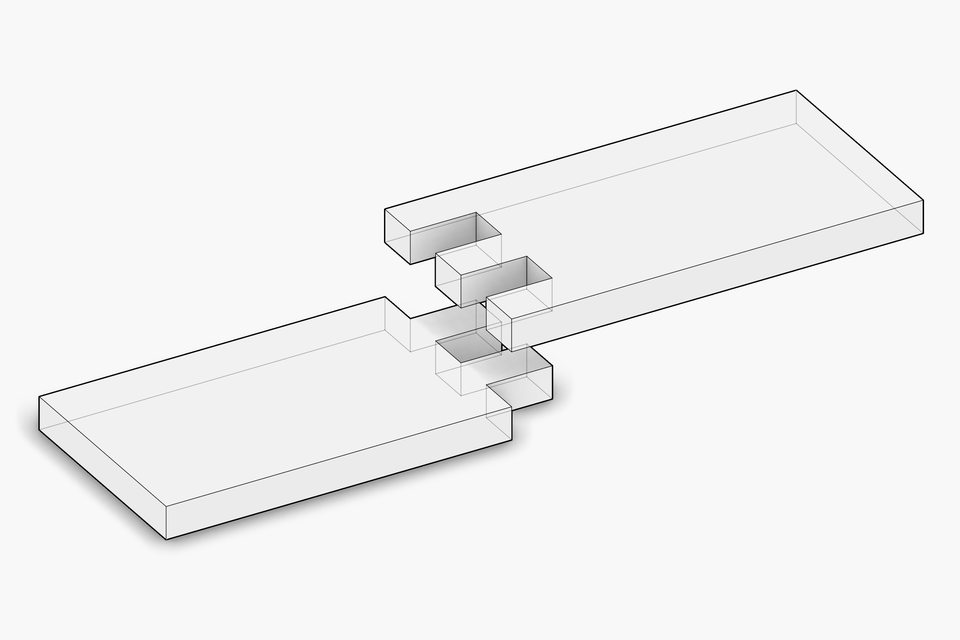
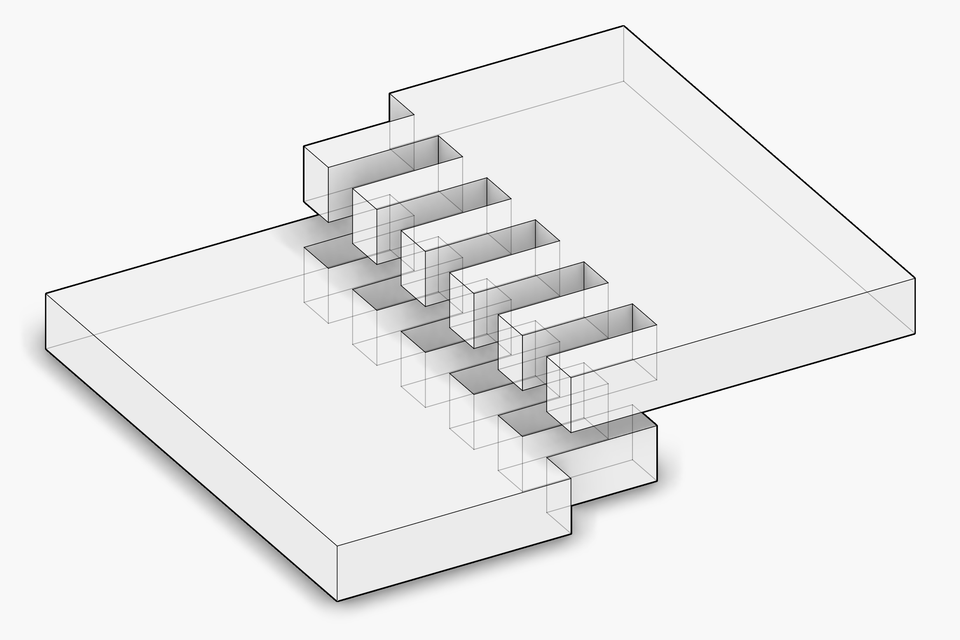
Joint library: repeat, a record's units by division ("k = count", count from the joint's size and a division distance; braced lines written once per unit, steps skip units past the count); round, max and min in expressions; p. 796 as the first parametric record, its fingers from the board's width

diff --git a/src/joinery_solver/wood_elements/wood_joint_library.cpp b/src/joinery_solver/wood_elements/wood_joint_library.cpp
@@ -112,7 +112,7 @@ struct Reader {
         return found->second;
     }
 
-    /// unit, length, cross, dot or meet of its arguments.
+    /// unit, length, cross, dot, meet, round, max or min of its arguments.
     LibraryValue call(const std::string& name) {
 
         std::vector<LibraryValue> arguments;
@@ -132,6 +132,12 @@ struct Reader {
             return {0.0, arguments[0].vector.cross(arguments[1].vector), true};
         if (name == "dot" && arguments.size() == 2)
             return {arguments[0].vector.dot(arguments[1].vector), Vector(), false};
+        if (name == "round" && arguments.size() == 1)
+            return {std::round(arguments[0].number), Vector(), false};
+        if (name == "max" && arguments.size() == 2)
+            return {std::max(arguments[0].number, arguments[1].number), Vector(), false};
+        if (name == "min" && arguments.size() == 2)
+            return {std::min(arguments[0].number, arguments[1].number), Vector(), false};
         if (name == "meet" && arguments.size() == 4) {
             const double along = (arguments[2].vector - arguments[0].vector).dot(arguments[3].vector) / arguments[1].vector.dot(arguments[3].vector);
             return {0.0, arguments[0].vector + arguments[1].vector * along, true};
@@ -188,6 +194,113 @@ static std::vector<std::filesystem::path> library_files(const std::string& chapt
     return files;
 }
 
+/// line with every {expression} in it replaced by its whole number, the expression read with the names and the index.
+static std::string braced(const std::string& line, const std::map<std::string, LibraryValue>& names) {
+
+    std::string out;
+    size_t at = 0;
+    while (true) {
+        const size_t open = line.find('{', at);
+        if (open == std::string::npos)
+            break;
+        const size_t close = line.find('}', open);
+        out += line.substr(at, open - at);
+        out += std::to_string(static_cast<long>(std::llround(evaluate(line.substr(open + 1, close - open - 1), names).number)));
+        at = close + 1;
+    }
+
+    return out + line.substr(at);
+}
+
+/// Whether a braced expression of line names a unit past the count (the fingers of every other unit, 2*k and 2*k + 1).
+static bool outside(const std::string& line, const std::map<std::string, LibraryValue>& names, int count) {
+
+    size_t at = 0;
+    while (true) {
+        const size_t open = line.find('{', at);
+        if (open == std::string::npos)
+            return false;
+        const size_t close = line.find('}', open);
+        const long unit = std::llround(evaluate(line.substr(open + 1, close - open - 1), names).number);
+        if (unit < 0 || unit >= count)
+            return true;
+        at = close + 1;
+    }
+}
+
+/// line with every {expression} its whole number and every other k (the index, a whole word) its number, so the line no longer
+/// depends on the index once written.
+static std::string written(const std::string& line, const std::map<std::string, LibraryValue>& names, const std::string& letter, int k) {
+
+    const std::string filled = braced(line, names);
+    std::string out;
+    size_t at = 0;
+    while (at < filled.size()) {
+        const char c = filled[at];
+        if (!(std::isalpha(static_cast<unsigned char>(c)) || c == '_')) {
+            out += c;
+            at++;
+            continue;
+        }
+        size_t end = at;
+        while (end < filled.size() && (std::isalnum(static_cast<unsigned char>(filled[end])) || filled[end] == '_'))
+            end++;
+        const std::string word = filled.substr(at, end - at);
+        out += word == letter ? std::to_string(k) : word;
+        at = end;
+    }
+
+    return out;
+}
+
+void library_repeat(LibraryRecord& record, std::map<std::string, LibraryValue>& names) {
+
+    if (!record.fields.count("repeat"))
+        return;
+    const std::string field = record.fields.at("repeat");
+    const std::string index = field.substr(0, field.find('='));
+    const std::string letter = index.substr(0, index.find_last_not_of(' ') + 1);
+    const int count = static_cast<int>(std::llround(evaluate(field.substr(field.find('=') + 1), names).number));
+    names["count"] = {static_cast<double>(count)};
+
+    for (const std::string key : {"points", "planes", "parts", "steps", "insertions"}) {
+        if (!record.lists.count(key))
+            continue;
+        std::vector<std::string> expanded;
+        for (const std::string& line : record.lists.at(key)) {
+            if (line.find('{') == std::string::npos) {
+                expanded.push_back(line);
+                continue;
+            }
+            // a step repeats its braced regions within the one step; any other line repeats whole
+            if (key == "steps") {
+                const size_t space = line.find(' ');
+                std::string regions;
+                std::istringstream parts(line.substr(space + 1));
+                std::string region;
+                while (std::getline(parts, region, ';')) {
+                    const size_t first = region.find_first_not_of(' ');
+                    region = first == std::string::npos ? "" : region.substr(first);
+                    const int times = region.find('{') == std::string::npos ? 1 : count;
+                    for (int k = 0; k < times; k++) {
+                        names[letter] = {static_cast<double>(k)};
+                        if (outside(region, names, count))
+                            continue;
+                        regions += (regions.empty() ? "" : "; ") + written(region, names, letter, k);
+                    }
+                }
+                expanded.push_back(line.substr(0, space) + " " + regions);
+                continue;
+            }
+            for (int k = 0; k < count; k++) {
+                names[letter] = {static_cast<double>(k)};
+                expanded.push_back(written(line, names, letter, k));
+            }
+        }
+        record.lists[key] = expanded;
+    }
+}
+
 std::vector<std::string> library_designs(const std::string& chapter) {
 
     std::vector<std::string> designs;
@@ -242,6 +355,8 @@ LibraryRecord library_record(const std::string& design) {
                 record.fields["moves"] = unquoted(line.substr(8));
             if (line.starts_with("  base:"))
                 record.fields["base"] = unquoted(line.substr(7));
+            if (line.starts_with("  repeat:"))
+                record.fields["repeat"] = unquoted(line.substr(9));
             if (line.starts_with("  ") && !line.starts_with("    "))
                 in_list = line.starts_with("  more:") ? "more" : line.starts_with("  posts:") ? "posts" : "";
             else if (!in_list.empty() && line.starts_with("    - "))

diff --git a/src/joinery_solver/wood_elements/wood_element_joint_beam.cpp b/src/joinery_solver/wood_elements/wood_element_joint_beam.cpp
@@ -2723,6 +2723,8 @@ std::shared_ptr<JointBeamElement> JointBeamElement::from_library(
             const std::vector<std::string> pair = split_top(line, '=');
             names[pair[0]] = {parameters.count(pair[0]) ? parameters.at(pair[0]) : evaluate(pair[1], names).number};
         }
+        // a repeat writes the record's braced lines once per unit, as many as the joint's size gives
+        library_repeat(record, names);
         double reach = half_lap + ah + aw;
         for (const std::string& line : record.lists["points"]) {
             const std::vector<std::string> pair = split_top(line, '=');
@@ -2806,6 +2808,8 @@ std::shared_ptr<JointBeamElement> JointBeamElement::from_library(
             const std::vector<std::string> pair = split_top(line, '=');
             names[pair[0]] = {parameters.count(pair[0]) ? parameters.at(pair[0]) : evaluate(pair[1], names).number};
         }
+        // a repeat writes the record's braced lines once per unit, as many as the joint's size gives
+        library_repeat(record, names);
 
         // the boxes reach over the member's whole footprint on the face, whatever points the record names
         double reach = (face - node).dot(u) + ah * std::abs(p.dot(n)) / std::max(u.dot(n), 1e-6);

diff --git a/src/joinery_solver/wood_elements/wood_joint_library.h b/src/joinery_solver/wood_elements/wood_joint_library.h
@@ -24,6 +24,11 @@ struct LibraryRecord {
 /// meet(point, direction, plane point, plane normal), where the line through point along direction meets the plane.
 LibraryValue evaluate(const std::string& expression, const std::map<std::string, LibraryValue>& names);
 
+/// A record's repeat ("k = count", count an expression of its parameters and frame, k the index): every line of its points,
+/// planes, parts and insertions with a {expression} written once for k = 0 ... count - 1 with each {expression} its whole
+/// number, and in a step every such region, but for one naming a unit past the count; names gets count. A record with no repeat is left as it is.
+void library_repeat(LibraryRecord& record, std::map<std::string, LibraryValue>& names);
+
 /// The designs of data/joints/<chapter>.yaml in the order the file has them, every file's when chapter is empty.
 std::vector<std::string> library_designs(const std::string& chapter = "");
 
